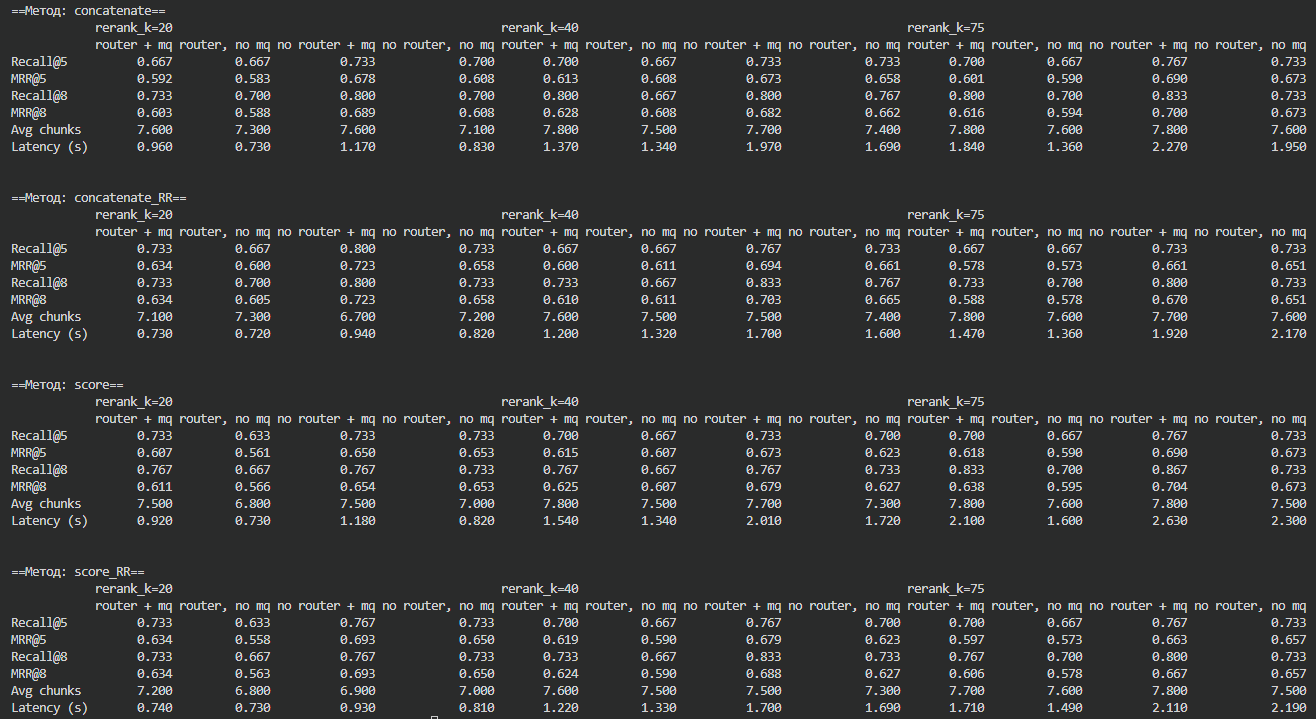
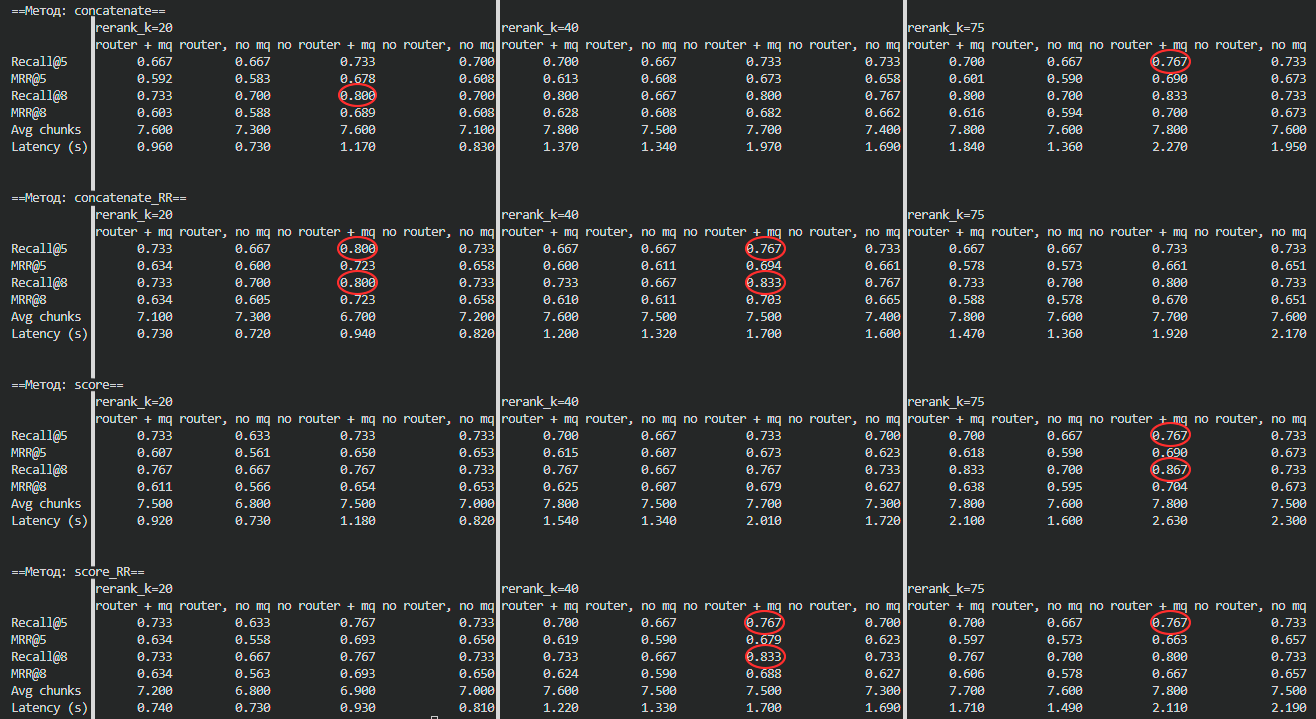
update README

diff --git a/src/main.py b/src/main.py
@@ -21,12 +21,12 @@ reranker = CrossEncoder(RERANK_MODEL_NAME, device=device)
 
 @dataclass
 class SearchConfig:
-    mode: str = "rrf"  # "concatenate", "rrf", "score", "vector", "bm25"
+    mode: str = "concatenate"  # "concatenate", "rrf", "score", "vector", "bm25"
     use_reranker: bool = True
     score_threshold: Optional[float] = None
     top_k: int = 8
     rerank_k: int = 20
-    use_router: bool = True
+    use_router: bool = False
     multi_query: bool = True
 
 client = chromadb.PersistentClient(path=CHROMA_DB_DIR)
@@ -185,7 +185,7 @@ def hybrid_search(user_question: str, n_results: int, db_target="docs", config: 
     return results
 
 
-def routing(user_question: str, config: SearchConfig = None, score_fuze = False):
+def routing(user_question: str, config: SearchConfig = None, score_fuze = True):
     """Создание альтернативных вопросов, маршрутизация и отправка в поиск, связывает hybrid_search() и rerank()"""
     if config is None:
         config = SearchConfig()

diff --git a/README.md b/README.md
@@ -16,8 +16,8 @@
 Локальный RAG-ассистент по экосистеме Ultralytics YOLO, объединяющий поиск по официальной документации и исходному коду (Python и C++).
 
 - **Маршрутизация запросов:** LLM определяет, куда отправлять вопрос - в код, документацию или в оба источника, экономя время и контекст.
-- **AST-чанкинг:** Код разбивается по функциям и классам с помощью `tree-sitter`.
-- **Гибридный поиск + RRF:** Слияние векторного поиска и BM25. RRF исключает высокие рейтинги от BM25 для кода.
+- **AST-чанкинг:** Код разбивается по функциям, классам и методам с помощью `tree-sitter`.
+- **Гибридный поиск + финальное слияние мультизапросов:** Слияние векторного поиска и BM25. Для финального слияния реализован RRF или Round Robin.
 - **Cross-Encoder реранкинг:** Пересортировка кандидатов перед подачей в контекст LLM.
 <div align="center">
 
@@ -39,7 +39,7 @@
 ## ⚒ Установка
 
 1. Установить зависимости:
-   ```
+   ```bash
    pip install -r requirements.txt
    ```
 
@@ -55,12 +55,12 @@
     ```
 
 3. Скачать документацию и построить индексы:
-   ```python
+   ```bash
    python src/updateData.py
    ```
 
 4. Запустить веб-интерфейс:
-   ```python
+   ```bash
    python src/main.py
    ```
 
@@ -68,20 +68,24 @@
 - `src/main.py` - RAG-пайплайн + Gradio
 - `src/router.py` - LLM-маршрутизатор запросов
 - `src/ast_chunker.py` - AST-парсер кода
-- `src/ingest_data.py` - чанкинг и загрузка в ChromaDB
+- `src/ingest_docs.py` - чанкинг и загрузка в ChromaDB
 - `src/ingest_code.py` - индексация кода в ChromaDB и BM25
-- `src/ingest_bm25.py` - построение BM25-индекса
 - `src/updateData.py` - скачивание документации и построение индексов
-- `src/metrics.py` - Генерация тестового датасета и расчёт метрик
+- `src/utils.py` - дополнительные инструменты
+- `src/metrics.py` - генерация тестового датасета и расчёт метрик
+- `src/quick_check.py` - тестирование мультизапросов и методов слияния
+- `src/sweep.py` - расчёт оптимальных параметров 
 - `metrics/` - ground_truth и таблицы с результатами
 
 ## 🧮 Метрики
-![Таблица метрик](table.png)
-Лучший результат точности - RRF + rerank (score>=0) без роутера (Recall: 0.7, MRR: 0.623 при 7.1 чанках в LLM)
+![Таблица метрик](metrics/metrics.png)
+Лучший результат точности без мультизапросов - score + rerank (score>=6) без роутера (Recall: 0.733, MRR: 0.653 при 4.1 чанках в LLM)
 
-### Тестирование Multi-Query на RRF + rerank (score>=0)
-![Влияние Multi-Query](multiQueryTest.png)
-Альтернативные вопросы улучшают качество ответов, но значительно (~2 раза) увеличивают время поиска.
+### Тестирование Multi-Query и RRF/Round Robin (score>=0)
+![Влияние Multi-Query](<metrics/TEST mq, router, RR or RRF.png>)
+Альтернативные вопросы улучшают качество ответов, но значительно (~1.5 раза) увеличивают время поиска.
+Алгоритм round robin также даёт выигрыш над RRF в некоторых конфигурациях.
+Лучший результат точности - score + rerank при rerank_k=75 с мультизапросами, без роутера. (Recall@8: 0.867, MRR: 0.704, Время: 2.630 c). Рекомендуется: concatenate + rerank + Round Robin. (Recall@8: 0.800, MRR: 0.723, Время: 0.940 c)
 
 ## 🔧 Настройка поиска в `main.py`
 - `n_results` - количество чанков для поиска
@@ -92,13 +96,17 @@
 - `rerank_k` - количество чанков до реранкера
 - `multi_query`: `True` / `False` - использование альтернативных вопросов
 - `db_target` - выбор целевой базы данных ("docs" или "code")
+- `score_fuze`: `True` / `False` - финальное слияние мультизапросов (`routing()`)
 
 ### Стандартная настройка
 `main.py` использует следующие параметры поиска по умолчанию (`routing()`):
 - `n_results`: 25 (docs)
 - `n_results`: 25 (code)
-- `mode`: rrf
+- `mode`: concatenate
 - `use_reranker`: True
 - `score_threshold`: 0
 - `top_k`: 8
 - `rerank_k`: 20
+- `use_router`: False
+- `multi-query`: True
+- Финальное слияние - Round Robin (score_fuze = True)
